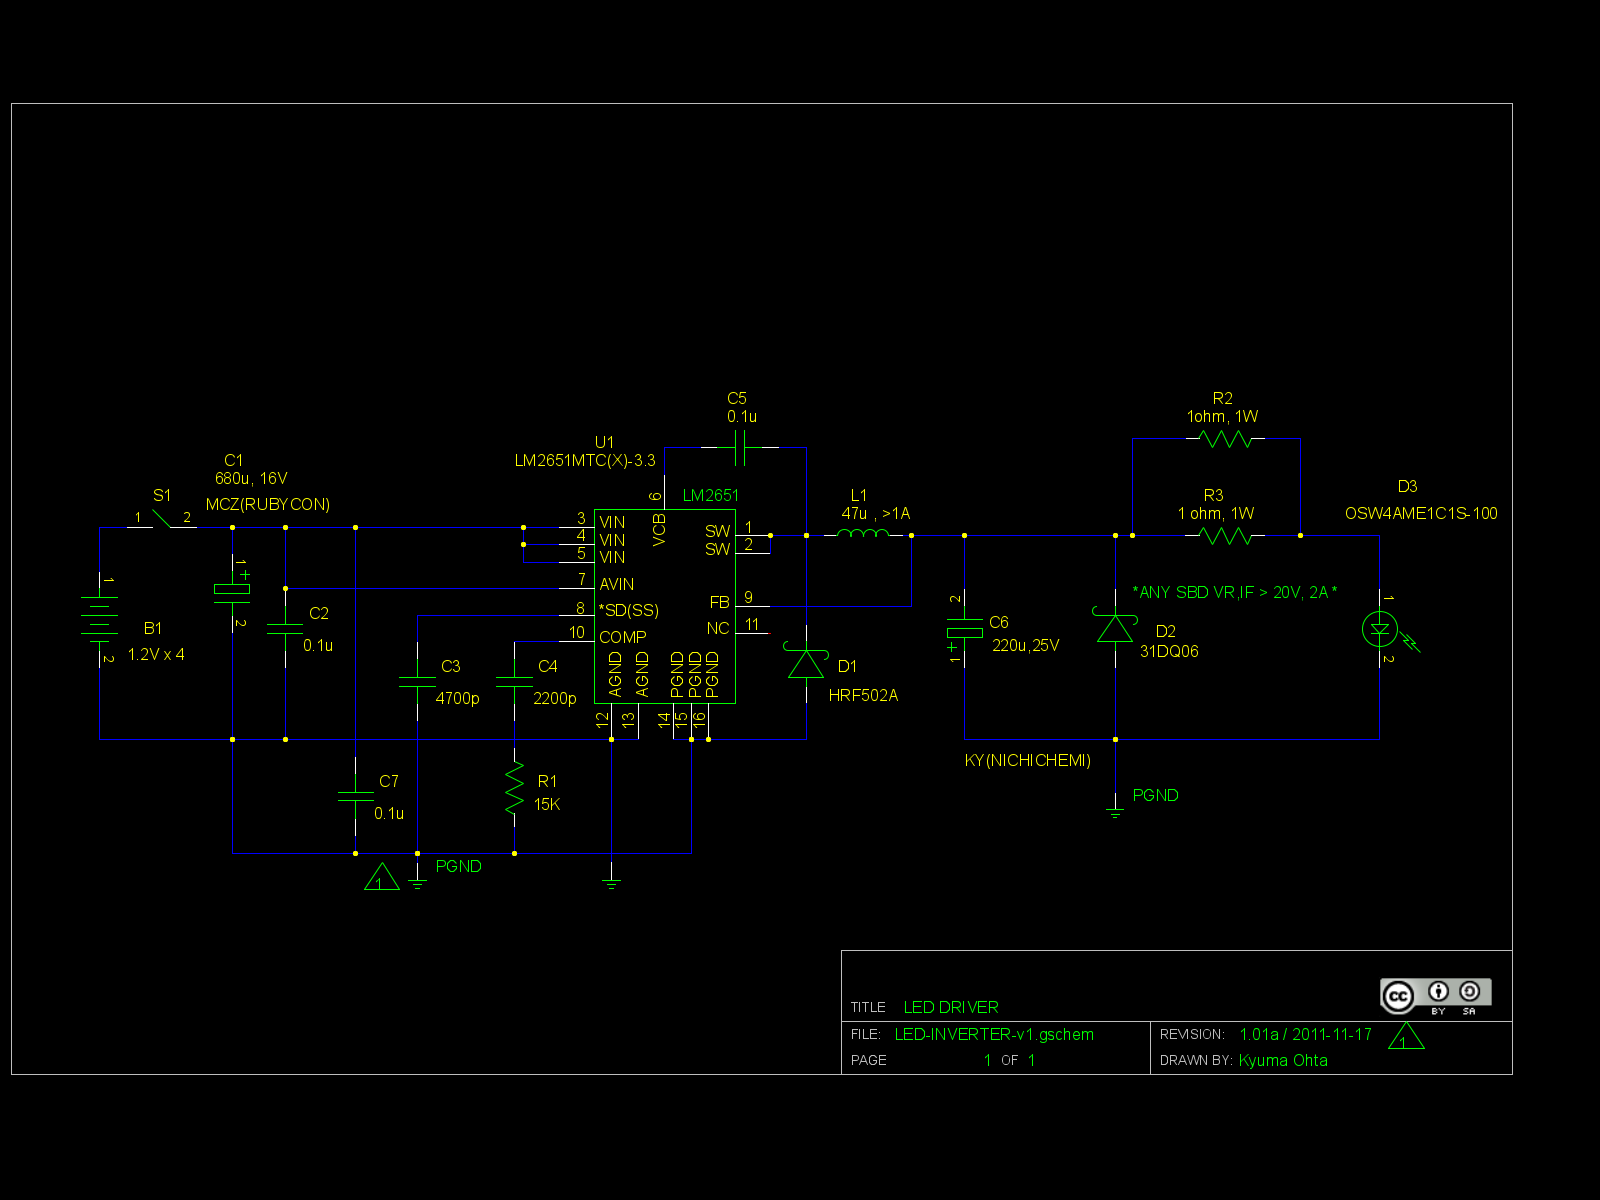
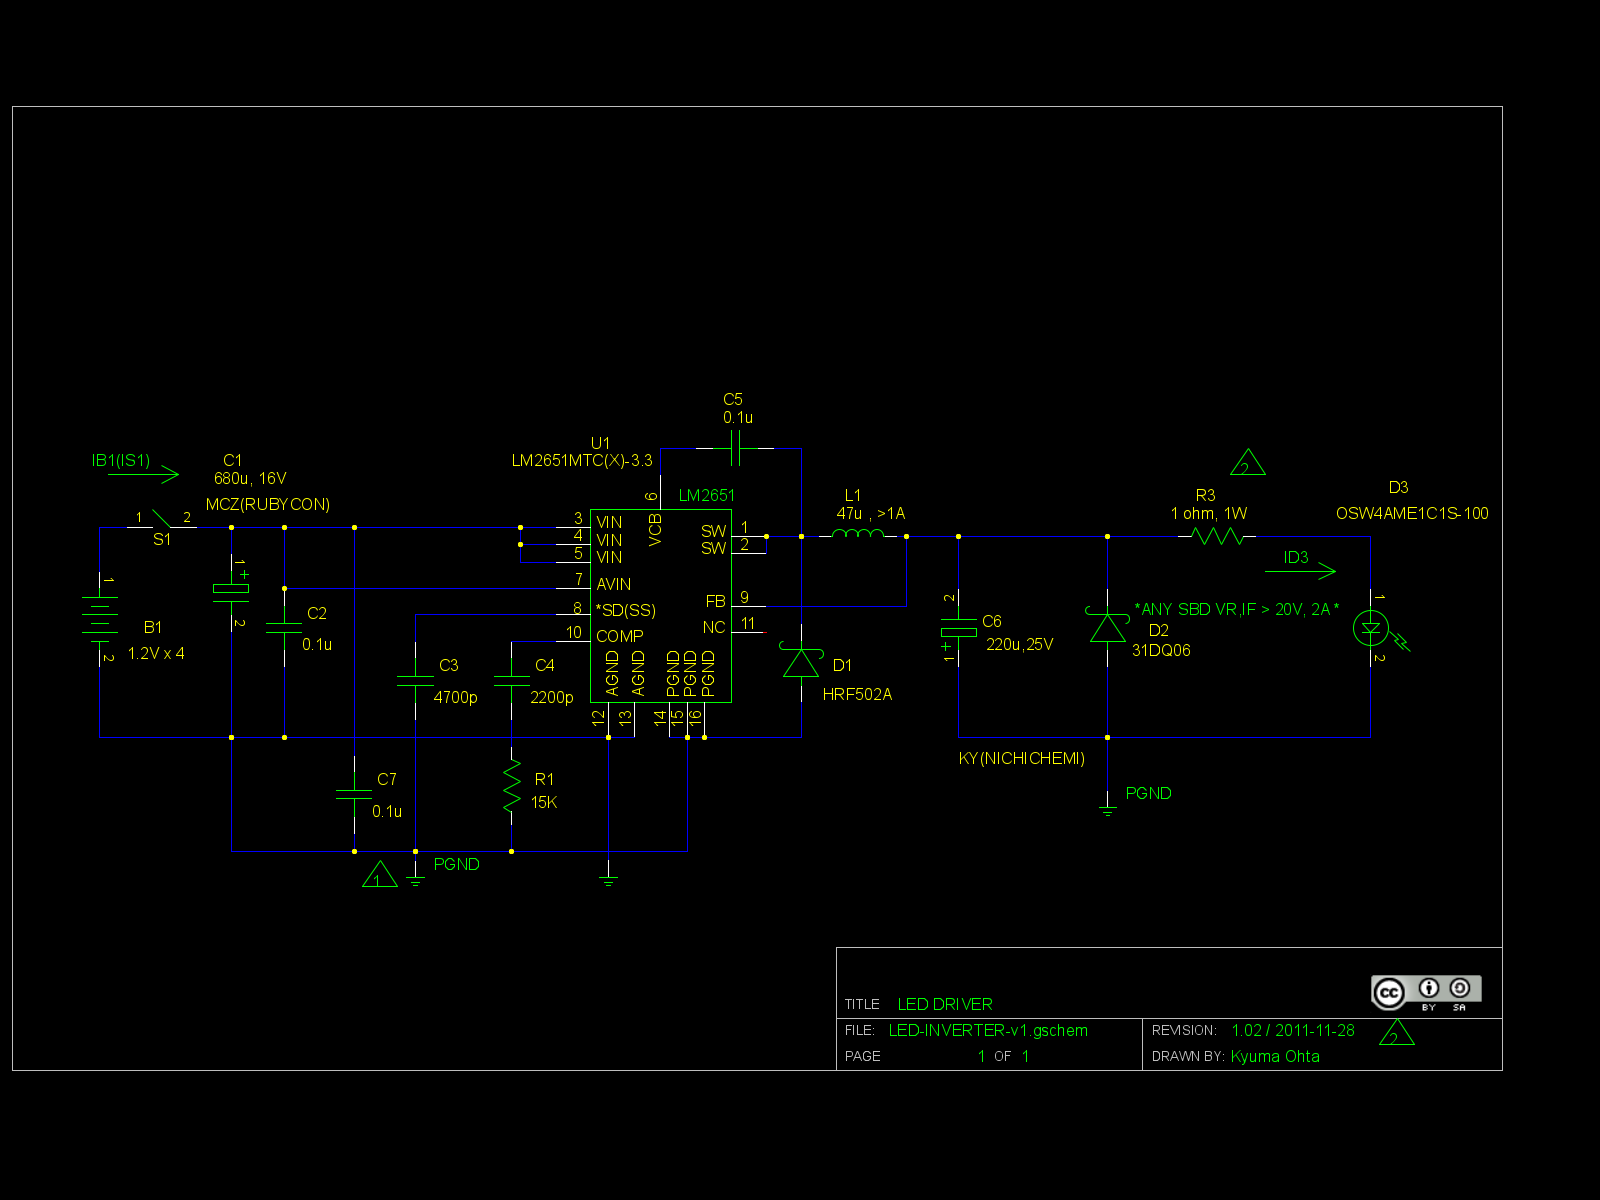
[HP][ELECTRONICS] LED v1.02
git-svn-id: https://xm7-sdl.unfuddle.com/svn/xm7-sdl_xm7-sdl-linux@375 a0c0af59-af12-4589-88dc-6bbe4490f711

diff --git a/HP/ELECTRONICS/INVERTER/index.html b/HP/ELECTRONICS/INVERTER/index.html
@@ -12,7 +12,7 @@
 <BR>
 Sorry, under construction and Japanese only,Yet...<BR>
 <BR>
-<H3>インバータを使った高効率LED照明装置(改版1+a)</H3>
+<H3>インバータを使った高効率LED照明装置(改版2 2011-11-28)</H3>
 <BR>
 <H4>きっかけ</H4>
 &nbsp;東日本大震災で、当日全面停電してしまってジャンク箱から引っ張り出したAMラジオと
@@ -34,6 +34,19 @@ HREF="http://akizukidenshi.com/catalog/g/gI-03709/">放熱器に付けられた1
 <H4>注意</H4>
 &nbsp; この工作は、スイッチング電源回路や表面実装部品に慣れてない人がやると非常に難しいと思います。<BR>
 &nbsp; 普通の人？は3.3V吐き出す出来合いのD/Dコンバータモジュールと抵抗器を組み合わせて、効率が低くても気軽にできる道を選ぶべきです。<BR>
+<h4>もくじ</H4>
+<A HREF="#SCH">・回路</A><BR>
+<A HREF="#KOUSAKU">・工作</A><BR>
+&nbsp;&nbsp; <A HREF="#PRE">1.まえがき</A><BR>
+&nbsp;&nbsp; <A HREF="#BOARD">2.基板についての基本的考え方</A><BR>
+&nbsp;&nbsp; <A HREF="#MAKING">3.製作</A><BR>
+&nbsp;&nbsp;&nbsp;&nbsp<A HREF="#IC">IC基板</A><BR>
+&nbsp;&nbsp;&nbsp;&nbsp<A HREF="#MAIN">メイン基板</A><BR>
+<A HREF="#EFF">・効率測定(28 Nov,2011)</A><BR>
+<A HREF="../index.html">電子工作系もくじへ</A><BR>
+<A HREF="../../">全体目次へ</A><BR>
+<BR>
+<A NAME="SCH"></A>
 <H4>回路</H4>
 <BR>
 <IMG SRC="./LED-INVERTER-v1.png" ALT="v1回路図"><BR>
@@ -52,8 +65,10 @@ HREF="./LED-INVERTER-v1.sch.gz">gEDA形式の回路図データ(gzip圧縮)</A><
 スイッチング方式で変換されるので非常に高い効率の電力変換が行われています。(97%は無理でも85%以上にはしたい…）<BR>
 (以下、あとでかく)<BR>
 <BR>
+<A NAME="KOUSAKU"></A>
 <H4>工作</H4>
 <BR>
+<A NAME="PRE"></A>
 1.まえがき<BR>
 &nbsp; LM2651はTSSOPと言う非常に小さくて、ピン間隔が狭い(0.65mm)ICです。しかも、電力ICなので発熱が予想される
 …さて、どうしようか。と言う所から始まりました。<BR>
@@ -61,6 +76,7 @@ HREF="./LED-INVERTER-v1.sch.gz">gEDA形式の回路図データ(gzip圧縮)</A><
 &nbsp; 秋月に寄った後、部品屋を眺めていたら、変換基板と一緒に銅箔テープ(サンハヤト
 T-30C)が売られていました。何たる神の啓示＼(^o^)／<BR>
 <BR>
+<A NAME="BOARD"></A>
 2.基板についての基本的考え方<BR>
 ・変換基板と2.54ピッチの万能基板の組み合わせで作る。<BR>
 ・ICやその周辺につけないといけないSBDは表面実装品でなおかつ変換基板上につける。<BR>
@@ -70,8 +86,10 @@ T-30C)が売られていました。何たる神の啓示＼(^o^)／<BR>
 ・ベタアースと変換基板上のグランドは結合する。但し、ループを形成しないように気をつける<BR>
 ・ケミコンは、マザーボードなどで使われる長寿命・低ESRの物を意図的に使う<BR>
 <BR>
+<A NAME="MAKING"></A>
 3.製作<BR>
 <IMG SRC="./PA302629.JPG" ALT="銅箔を貼った変換基板"><BR>
+<A NAME="IC"></A>
 &nbsp; まず、変換基板（ダイセン電子工業 D016）に銅箔テープを切り貼りしていきます。<BR>
 &nbsp; 変換基板は、SSOPのパターン<u>のみ</u>が一面に描かれてるものを使って下さい。
 他のICのパターンが同じ面にあるものは使えません。(例：秋月で売ってる変換基板とか）。
@@ -113,6 +131,7 @@ SBD(HR502A)をSWとPGNDの間にハンダ付けします。
 &nbsp; 代用フロンなどの基板用洗浄剤を持ってる方は、ここで一度変換基板のフラックスを洗浄したほうがいいかもしれません。<BR>
 <BR>
 &nbsp;
+<A NAME="MAIN"></A>
 次に、本体基板を組み立てます。<BR>
 <BR>
 &nbsp;最初に、変換基板に「足」を付けます。この変換基板は穴径が小さいので通常のピンヘッダだと通らないかも知れない
@@ -147,7 +166,49 @@ SBD(HR502A)をSWとPGNDの間にハンダ付けします。
 <BR>
 <BR>
 以下、製作中の図やら何やら乗っける予定（は未定）<BR>
+<A NAME="EFF"></A>
+<H4> 効率を測ってみた(11/28)</H4>
+&nbsp; と云う事で、効率ですが<BR>
+・インバータICの効率<BR>
+・システム全体の効率<BR>
+&nbsp; の二つがあります。<BR>
+<H4>まず、インバータIC(てか電源供給部)の効率を測ってみましょう。</H4>
+<B>効率（η’）＝（D2の両端の電圧×D3に流れ込む電流) /
+(B1の両端の電圧×S1の間の電流)</B><BR>
+で近似します。<BR>
 <BR>
+VD2 = 3.37V<BR>
+ID3 = 0.265A<BR>
+POUT = 0.893W<BR>
+<BR>
+VB1 = 5.74V<BR>
+IS1 = 0.161A<BR>
+PIN = 0.924W<BR>
+<B>η’ = 96.65%</B><BR>
+但し、R2は再調整で除去<BR>
+<FONT SIZE=+1><B>本当に、97%近くまで行っています！！これはスイッチング式の電源回路としてはかなりすごい！！</B></FONT><BR>
+<BR>
+<H4>今度は、システム全体の効率</H4>
+<B>η ＝ （D3の両端の電圧×D3に流れ込む電流) /
+(B1の両端の電圧×S1の間の電流)</B><BR>
+で近似します。<BR>
+<BR>
+VD3 = 3.11V<BR>
+<B>η = 88.9%</B><BR>
+<FONT SIZE=+1><B>電流制限抵抗（R3 : 1Ω）があるので、この程度のロスが出ますが、しかし89%…</B></FONT><BR>
+<BR>
+&nbsp; この測定をしてる時に気が付きましたが、<u>LED(D3)の放熱を十分にしない状態で放置すると、ID3が10秒あたり0.001A程度上昇します。
+<B>このLED、温度特性が正なので</B>、放熱なしで時間が経つと電流が上昇しすぎて暴走、LEDが焼き切れる危険があります。</u><BR>
+&nbsp;<B>実際に使う場合は、十分に大きなアルミ製のシャーシかアルミ板にネジ穴を開けて組み付け
+（秋月で売られてるアルミ基板付きLEDは、3Φのナベネジの頭や小スプリングワッシャを
+載せてもギリギリショートしないようにできています。流石照明部品メーカのアイテム。）、
+その上でシャーシと放熱基板のアルミ面を密着させます。</B>
+レイアウトが確定してる場合は、ＰＣ部品屋で百円くらいで売ってるシリコングリスを塗ってもいいでしょう。
+但し、1WのLEDだとグリスなしでも殆ど温度が上がりません（3Wならもっと上がるでしょうから真面目に放熱や熱対策を考えないと厳しいかも）<BR>
+<BR>
+<BR>
+<BR>
+<HR>
 本ドキュメント・及びノウハウは<IMG SRC="http://i.creativecommons.org/l/by-sa/3.0/88x31.png"
 ALT="CC-BY-SA V3.0"> CC BY SA v3.0で公開します。<BR>
 実装技術等の特許登録はこれを禁じます。(DO NOT PATENT THIS TECHNIQUES)<BR>
@@ -175,7 +236,7 @@ Attribution-ShareAlike 3.0 Unported License</a>.
 <BR>
 <BR>
 <BR>
-Last Update: 11 Nov.2011 by Artane. ( whatisthis.sowhat _a_t gmail.com )<BR>
+Last Update: 28 Nov.2011 by Artane. ( whatisthis.sowhat _a_t gmail.com )<BR>
 <BR>
 </body>
 </html>

diff --git a/HP/index.html b/HP/index.html
@@ -26,7 +26,7 @@ Note: XM7/SDL <A HREF="./XM7-SDL/">was moved here...</A><BR>
 <BR>
 &nbsp;<A HREF="./ELECTRONICS">・Electronics Developments(電子回路開発のページ)</A><BR>
 &nbsp;&nbsp;&nbsp;&nbsp;&nbsp;&nbsp;<A HREF="./ELECTRONICS/INVERTER/">LED light using inverter.(インバータを使ったLED照明)</A>
-&nbsp;&nbsp; Version 1.01a 2011-11-17 up!<BR>
+&nbsp;&nbsp; Version 1.02 2011-11-28 up!<BR>
 <BR>
 Last Update 17 Nov 2011 by Artane. ( whatisthis.sowhat _a_t gmail.com )<BR>
 <BR>

diff --git a/HP/ELECTRONICS/index.html b/HP/ELECTRONICS/index.html
@@ -18,7 +18,7 @@ Sorry, under construction and Japanese only,Yet...<BR>
 製作途中のものが殆どになると思います<BR>
 <BR>
 <H3><A
-HREF="./INVERTER/">・インバータを使った高効率LED照明装置(改版1+a / 2011-11-17)</A></H3>
+HREF="./INVERTER/">・インバータを使った高効率LED照明装置(改版2 / 2011-11-28)</A></H3>
 <BR>
 <BR>
 <A HREF="../">ホームに戻る</A><BR>
